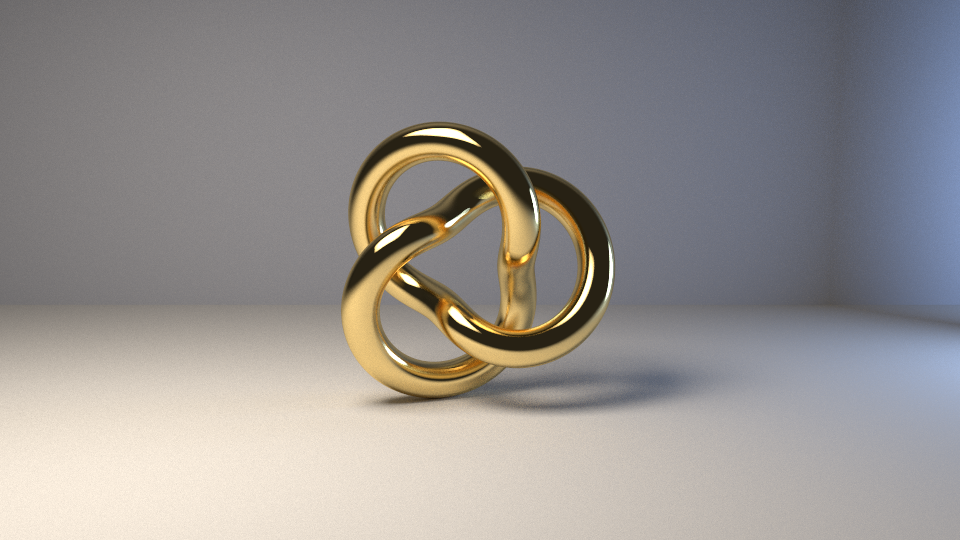
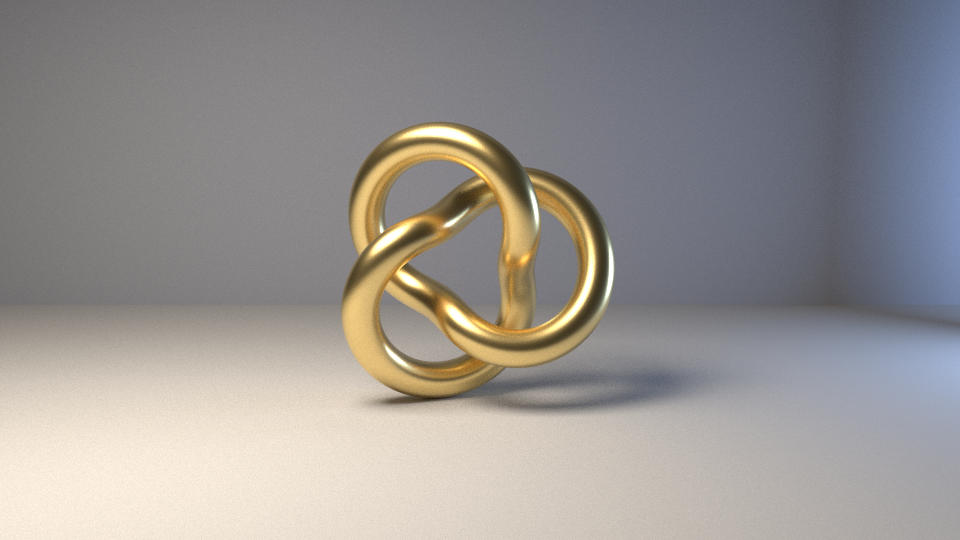
Document MIS and add comparison renders

Changed region(s): [[0.3438, 0.2074, 0.6562, 0.7111]]

diff --git a/README.md b/README.md
@@ -10,7 +10,13 @@ physically based renderer reproduces without being told to.
 ![A gold trefoil knot in a studio](renders/knot.png)
 
 *`knot` scene: 98,304 triangles generated from a formula, 960x540, 1024
-samples per pixel, 40 seconds on 10 cores.*
+samples per pixel, 55 seconds on 10 cores.*
+
+![Four glossy plates reflecting four lights](renders/plates.png)
+
+*`plates` scene, 512 samples per pixel: the standard test for multiple
+importance sampling. Smooth plate at the back, rough at the front; lights from
+tiny to large.*
 
 ![Three spheres at increasing heights casting progressively softer shadows](renders/penumbra.png)
 
@@ -37,7 +43,7 @@ cargo run --release -- --obj path/to/model.obj --finish clay --turn 30
 ```
 
 ```
---scene <NAME>     penumbra, knot, cornell, showcase or field [default: penumbra]
+--scene <NAME>     penumbra, knot, plates, cornell, showcase or field [default: penumbra]
 --list             list scenes
 --obj <PATH>       render an OBJ file in a studio instead of a named scene
 --finish <NAME>    surface for --obj: clay, gold or glass  [default: clay]
@@ -48,15 +54,15 @@ cargo run --release -- --obj path/to/model.obj --finish clay --turn 30
 --seed <N>         same seed, same image                   [default: 0]
 --out <PATH>       output PNG                              [default: <scene>.png]
 --bvh <METHOD>     sah or midpoint                         [default: sah]
---no-direct        plain path tracing, no light sampling
+--lighting <MODE>  mis, light or bsdf                       [default: mis]
 --clamp <VALUE>    clamp sample radiance to remove fireflies (biased)
 --threads <N>      worker threads                          [default: all cores]
 ```
 
 ## What it does
 
-- Spheres, parallelograms and triangle meshes; diffuse, metal, glass and
-  emissive materials.
+- Spheres, parallelograms and triangle meshes; diffuse, mirror, glass,
+  emissive and glossy (GGX microfacet) materials.
 - A hand-written OBJ reader (no parser dependency). Meshes without normals
   are smoothed, except across edges sharper than 40 degrees, so a cube stays
   a cube.
@@ -64,32 +70,49 @@ cargo run --release -- --obj path/to/model.obj --finish clay --turn 30
 - Flat, stack-traversed BVH with midpoint or binned-SAH construction.
 - Thin-lens camera with depth of field.
 - Iterative path tracing with Russian roulette.
-- Next event estimation: every diffuse bounce samples a light directly, by
-  solid angle for spheres and by area for quads and triangles, so a mesh can
-  be a light.
+- Multiple importance sampling: every rough bounce takes one sample aimed at
+  a light and one from the surface's own reflection lobe, and weighs them with
+  the power heuristic. Lights are sampled by solid angle for spheres and by
+  area for quads and triangles, so a mesh can be a light.
 - Parallel over scanlines, and deterministic: the output is bit-identical for
   any thread count.
 - sRGB output.
 
 The design decisions and their reasons are in [ARCHITECTURE.md](ARCHITECTURE.md).
 
-## Why light sampling matters here
+## Why two sampling strategies
 
-Same scene, same 64 samples per pixel, same render time to within a factor of
-two. Left: plain path tracing, which only finds the lamp when a random bounce
-happens to hit it. Right: direct light sampling.
+There are two ways to find a light from a surface: aim at the light, or follow
+the surface's reflection and see what it hits. Each fails somewhere. All three
+images below use 16 samples per pixel.
 
-| `--no-direct` | default |
+| follow the reflection (`--lighting bsdf`) | aim at lights (`--lighting light`) | both, weighted (`--lighting mis`) |
+|---|---|---|
+| ![Reflection sampling only](renders/plates_bsdf_16spp.png) | ![Light sampling only](renders/plates_light_16spp.png) | ![Multiple importance sampling](renders/plates_mis_16spp.png) |
+
+- **Following the reflection** finds the large light in the smooth plate and
+  almost never finds the tiny one. Everything diffuse is noise.
+- **Aiming at lights** fixes the diffuse surfaces and the small lights, but
+  the large light in the smooth plates (right side, top two plates) turns to
+  speckle: a random point on a big light rarely lies in a narrow reflection.
+- **Weighting both** by how likely each was to produce the direction is clean
+  in every corner, at the same cost as aiming at lights alone (0.22 s each).
+
+All three converge to the same image. That is not taken on trust:
+`tests/direct_lighting.rs` renders a scene with diffuse, glossy, mirror and
+glass surfaces in each mode and requires the image means to agree within 2%
+per channel.
+
+The effect on a scene with one small lamp and no glossy surfaces, at 64
+samples per pixel:
+
+| `--lighting bsdf` | default |
 |---|---|
-| ![Plain path tracing at 64 spp](renders/compare_path_tracing_64spp.png) | ![Direct lighting at 64 spp](renders/compare_direct_lighting_64spp.png) |
-
-Both converge to the same image. That is not taken on trust:
-`tests/direct_lighting.rs` renders one scene both ways and requires the image
-means to agree within 2% per channel.
+| ![Plain path tracing at 64 spp](renders/compare_path_tracing_64spp.png) | ![With light sampling at 64 spp](renders/compare_direct_lighting_64spp.png) |
 
 ## How it is checked
 
-115 tests (`cargo test`). The ones that carry the most weight:
+124 tests (`cargo test`). The ones that carry the most weight:
 
 - **Furnace tests.** A sphere inside a uniformly white environment must look
   exactly as bright as its albedo; a white diffuse sphere, a perfect mirror and
@@ -104,8 +127,12 @@ means to agree within 2% per channel.
   last bit; nine kinds of malformed input each report the right line.
 - **Determinism.** One thread and seven threads produce identical pixels.
   Midpoint and SAH trees produce identical pixels.
-- **Light sampling.** The estimated solid angle of a sphere and of a quad match
-  their closed forms.
+- **Light sampling.** The estimated solid angle of a sphere, a quad and a
+  triangle match their closed forms, and evaluating a light's density gives
+  the value its sampler reported.
+- **Glossy sampling.** The fraction of reflection samples landing in a cone
+  equals the integral of the evaluated density over that cone, and no sample
+  ever carries a weight above 1.
 - **No silent NaN.** Every sample is checked before it is accumulated; rejected
   samples are counted and the CLI warns if the count is not zero. It is zero in
   every scene and test here.
@@ -138,9 +165,13 @@ point of the tree.
 
 ## Limitations
 
-- No multiple importance sampling. Rough metals are treated as mirrors for
-  light sampling, and a shading point inside a spherical light gets no direct
-  light.
+- The glossy material models single scattering only, so it darkens as
+  roughness rises. In the furnace test image a white glossy sphere dims the
+  image mean by 0% at roughness 0.05, 5% at 0.5 and 25% at 1.0.
+- The older `metal` material with non-zero fuzz is still treated as a mirror
+  for light sampling. Use `glossy` for rough reflectors.
+- Lights are chosen uniformly, which wastes samples in scenes with many
+  lights of very different brightness.
 - Caustics are found only by chance, so they are noisy. The reference renders
   of `penumbra` and `cornell` use `--clamp 8`, which removes the resulting
   fireflies at the cost of slightly darker caustics.

diff --git a/ARCHITECTURE.md b/ARCHITECTURE.md
@@ -53,7 +53,8 @@ impl Sampler { pub fn for_pixel(seed: u64, pixel: u64) -> Sampler; }
 // geometry
 pub struct MaterialId(u32);
 pub struct HitRecord { pub t: f64, pub point: Point3, pub normal: Vec3,
-                       pub front_face: bool, pub material: MaterialId }
+                       pub front_face: bool, pub material: MaterialId,
+                       pub primitive: u32 }
 pub trait Hittable: Send + Sync {
     fn hit(&self, ray: &Ray, t: Interval) -> Option<HitRecord>;
     fn bounding_box(&self) -> Aabb;
@@ -61,11 +62,13 @@ pub trait Hittable: Send + Sync {
 pub enum Primitive { Sphere(Sphere), Quad(Quad), Triangle(Triangle) } // Copy, impl Hittable
 
 // material
-pub struct Scatter { pub attenuation: Color, pub ray: Ray, pub specular: bool }
-pub enum Material { Lambertian(..), Metal(..), Dielectric(..), Emissive(..) }
+pub struct Scatter { pub attenuation: Color, pub ray: Ray, pub specular: bool, pub pdf: f64 }
+pub struct Bsdf { pub value: Color, pub pdf: f64 }           // BSDF * cosine, and its density
+pub enum Material { Lambertian(..), Metal(..), Dielectric(..), Emissive(..), Glossy(..) }
 impl Material {
     pub fn scatter(&self, ray_in: &Ray, hit: &HitRecord, sampler: &mut Sampler)
         -> Option<Scatter>;
+    pub fn eval(&self, ray_in: &Ray, hit: &HitRecord, wi: Vec3) -> Option<Bsdf>;
     pub fn emitted(&self) -> Color;
 }
 
@@ -133,6 +136,18 @@ gain. An index lookup into `Vec<Material>` costs one bounds check per bounce.
 The other tempting design, `Rc<dyn Material>` inside the hit record (the direct
 translation of `shared_ptr<material>`), is worse: `Rc` is not `Send`, so it
 blocks rayon entirely, and `Arc` adds an atomic increment per ray hit.
+
+### Sampling and evaluating are separate questions
+
+`scatter` answers "where does the path go next". Multiple importance sampling
+also needs "how strongly would this surface reflect light from that other
+direction, and how likely was `scatter` to pick it", which is `eval`. Mirrors
+and glass return `None`: their lobes are single directions.
+
+For the same reason a hit carries the index of the primitive it struck. When a
+reflected ray lands on a light, the integrator must ask that light how likely
+its own sampler was to choose the same direction, and for that it needs the
+light itself, not just its material.
 
 ## 3. BVH: build both, default to SAH
 
